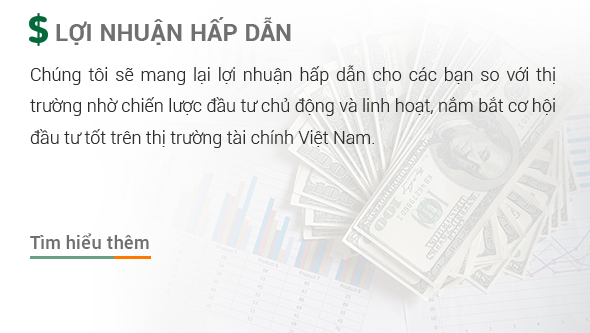
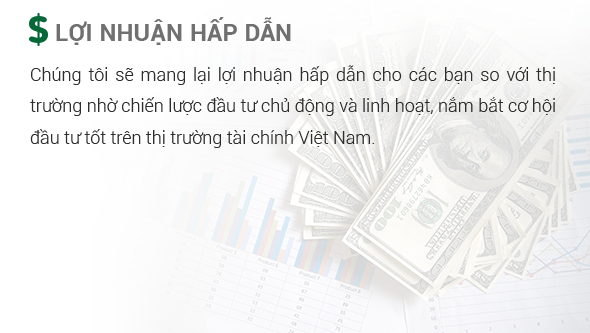
27042017 trumoftrums

Changed region(s): [[0.061, 0.6907, 0.2746, 0.7808]]

diff --git a/source/public/assets/frontend/css/style_hsg.css b/source/public/assets/frontend/css/style_hsg.css
@@ -271,7 +271,7 @@
 .content-right .second-bottom .item-thong-diep .right{
     float: left;
     width: 58%;
-    margin-left: 40%;
+    margin-left: 37%;
 }
 .content-right .second-bottom .item-thong-diep .right .cover-p-thong-diep{
     float: left;
@@ -305,7 +305,7 @@
     padding: 10px 10px 10px 23%;
     line-height: 22px;
     text-align: justify;
-    margin-left: -20%;
+    margin-left: -23%;
     font-size: 14px;
 }
 .content-right .title-header{

diff --git a/source/resources/views/user/partials/details.blade.php b/source/resources/views/user/partials/details.blade.php
@@ -1,33 +1,33 @@
 <div class="panel panel-default">
-    <div class="panel-heading">@lang('app.user_details')</div>
+    <div class="panel-heading">Thông tin chi tiết</div>
     <div class="panel-body">
         <div class="row">
             <div class="col-md-6">
                 <div class="form-group">
-                    <label for="first_name">@lang('app.role')</label>
+                    <label for="first_name">Vai trò</label>
                     {!! Form::select('role', $roles, $edit ? $user->roles->first()->id : '',
                         ['class' => 'form-control', 'id' => 'role', $profile ? 'disabled' : '']) !!}
                 </div>
                 <div class="form-group">
-                    <label for="status">@lang('app.status')</label>
+                    <label for="status">Trạng thái</label>
                     {!! Form::select('status', $statuses, $edit ? $user->status : '',
                         ['class' => 'form-control', 'id' => 'status', $profile ? 'disabled' : '']) !!}
                 </div>
                 <div class="form-group">
-                    <label for="first_name">@lang('app.first_name')</label>
+                    <label for="first_name">Tên</label>
                     <input type="text" class="form-control" id="first_name"
-                           name="first_name" placeholder="@lang('app.first_name')" value="{{ $edit ? $user->first_name : '' }}">
+                           name="first_name" placeholder="Tên" value="{{ $edit ? $user->first_name : '' }}">
                 </div>
                 <div class="form-group">
-                    <label for="last_name">@lang('app.last_name')</label>
+                    <label for="last_name">Họ</label>
                     <input type="text" class="form-control" id="last_name"
-                           name="last_name" placeholder="@lang('app.last_name')" value="{{ $edit ? $user->last_name : '' }}">
+                           name="last_name" placeholder="Họ" value="{{ $edit ? $user->last_name : '' }}">
                 </div>
             </div>
 
             <div class="col-md-6">
                 <div class="form-group">
-                    <label for="birthday">@lang('app.date_of_birth')</label>
+                    <label for="birthday">Ngày sinh</label>
                     <div class="form-group">
                         <div class='input-group date'>
                             <input type='text' name="birthday" id='birthday' value="{{ $edit ? $user->birthday : '' }}" class="form-control" />
@@ -38,17 +38,17 @@
                     </div>
                 </div>
                 <div class="form-group">
-                    <label for="phone">@lang('app.phone')</label>
+                    <label for="phone">Số ĐT</label>
                     <input type="text" class="form-control" id="phone"
-                           name="phone" placeholder="@lang('app.phone')" value="{{ $edit ? $user->phone : '' }}">
+                           name="phone" placeholder="Số ĐT" value="{{ $edit ? $user->phone : '' }}">
                 </div>
                 <div class="form-group">
-                    <label for="address">@lang('app.address')</label>
+                    <label for="address">Địa chỉ</label>
                     <input type="text" class="form-control" id="address"
-                           name="address" placeholder="@lang('app.address')" value="{{ $edit ? $user->address : '' }}">
+                           name="address" placeholder="Địa chỉ" value="{{ $edit ? $user->address : '' }}">
                 </div>
                 <div class="form-group">
-                    <label for="address">@lang('app.country')</label>
+                    <label for="address">Quốc gia</label>
                     {!! Form::select('country_id', $countries, $edit ? $user->country_id : '', ['class' => 'form-control']) !!}
                 </div>
             </div>
@@ -57,7 +57,7 @@
                 <div class="col-md-12">
                     <button type="submit" class="btn btn-primary" id="update-details-btn">
                         <i class="fa fa-refresh"></i>
-                        @lang('app.update_details')
+                        Cập nhật
                     </button>
                 </div>
             @endif

diff --git a/source/resources/views/partials/sidebar.blade.php b/source/resources/views/partials/sidebar.blade.php
@@ -49,7 +49,7 @@
             @permission('users.activity')
                 <li class="{{ Request::is('activity*') ? 'active open' : ''  }}">
                     <a href="{{ route('activity.index') }}" class="{{ Request::is('activity*') ? 'active' : ''  }}">
-                        <i class="fa fa-list-alt fa-fw"></i> @lang('app.activity_log')
+                        <i class="fa fa-list-alt fa-fw"></i> Lịch sử
                     </a>
                 </li>
             @endpermission
@@ -58,21 +58,21 @@
                 <li class="{{ Request::is('role*') || Request::is('permission*') ? 'active open' : ''  }}">
                     <a href="#">
                         <i class="fa fa-user fa-fw"></i>
-                        @lang('app.roles_and_permissions')
+                        Vai trò và Quyền
                         <span class="fa arrow"></span>
                     </a>
                     <ul class="nav nav-second-level collapse">
                         @permission('roles.manage')
                             <li>
                                 <a href="{{ route('role.index') }}" class="{{ Request::is('role*') ? 'active' : ''  }}">
-                                    @lang('app.roles')
+                                    Vai trò
                                 </a>
                             </li>
                         @endpermission
                         @permission('permissions.manage')
                             <li>
                                 <a href="{{ route('permission.index') }}"
-                                   class="{{ Request::is('permission*') ? 'active' : ''  }}">@lang('app.permissions')</a>
+                                   class="{{ Request::is('permission*') ? 'active' : ''  }}">Quyền</a>
                             </li>
                         @endpermission
                     </ul>
@@ -82,7 +82,7 @@
             @permission(['settings.general', 'settings.auth', 'settings.notifications'])
             <li class="{{ Request::is('settings*') ? 'active open' : ''  }}">
                 <a href="#">
-                    <i class="fa fa-gear fa-fw"></i> @lang('app.settings')
+                    <i class="fa fa-gear fa-fw"></i> Cài đặt
                     <span class="fa arrow"></span>
                 </a>
                 <ul class="nav nav-second-level collapse">
@@ -90,7 +90,7 @@
                         <li>
                             <a href="{{ route('settings.general') }}"
                                class="{{ Request::is('settings') ? 'active' : ''  }}">
-                                @lang('app.general')
+                                Tổng quát
                             </a>
                         </li>
                     @endpermission
@@ -98,7 +98,7 @@
                         <li>
                             <a href="{{ route('settings.auth') }}"
                                class="{{ Request::is('settings/auth*') ? 'active' : ''  }}">
-                                @lang('app.auth_and_registration')
+                                Xác thực & Đăng ký
                             </a>
                         </li>
                     @endpermission
@@ -106,7 +106,7 @@
                         <li>
                             <a href="{{ route('settings.notifications') }}"
                                class="{{ Request::is('settings/notifications*') ? 'active' : ''  }}">
-                                @lang('app.notifications')
+                                Thông báo
                             </a>
                         </li>
                     @endpermission

diff --git a/source/resources/views/user/partials/auth.blade.php b/source/resources/views/user/partials/auth.blade.php
@@ -1,5 +1,5 @@
 <div class="panel panel-default">
-    <div class="panel-heading">@lang('app.login_details')</div>
+    <div class="panel-heading">Thông tin đăng nhập</div>
     <div class="panel-body">
         <div class="form-group">
             <label for="email">@lang('app.email')</label>
@@ -7,24 +7,24 @@
                    name="email" placeholder="@lang('app.email')" value="{{ $edit ? $user->email : '' }}">
         </div>
         <div class="form-group">
-            <label for="username">@lang('app.username')</label>
-            <input type="text" class="form-control" id="username" placeholder="(@lang('app.optional'))"
+            <label for="username">Tên đăng nhập</label>
+            <input type="text" class="form-control" id="username" placeholder="Tên đăng nhập"
                    name="username" value="{{ $edit ? $user->username : '' }}">
         </div>
         <div class="form-group">
             <label for="password">{{ $edit ? trans("app.new_password") : trans('app.password') }}</label>
             <input type="password" class="form-control" id="password"
-                   name="password" @if ($edit) placeholder="@lang('app.leave_blank_if_you_dont_want_to_change')" @endif>
+                   name="password" @if ($edit) placeholder="Để trống nếu bạn không muốn thay đổi mật khẩu" @endif>
         </div>
         <div class="form-group">
             <label for="password_confirmation">{{ $edit ? trans("app.confirm_new_password") : trans('app.confirm_password') }}</label>
             <input type="password" class="form-control" id="password_confirmation"
-                   name="password_confirmation" @if ($edit) placeholder="@lang('app.leave_blank_if_you_dont_want_to_change')" @endif>
+                   name="password_confirmation" @if ($edit) placeholder="Để trống nếu bạn không muốn thay đổi mật khẩu" @endif>
         </div>
         @if ($edit)
             <button type="submit" class="btn btn-primary" id="update-login-details-btn">
                 <i class="fa fa-refresh"></i>
-                @lang('app.update_details')
+                Cập nhật
             </button>
         @endif
     </div>

diff --git a/source/resources/views/user/profile.blade.php b/source/resources/views/user/profile.blade.php
@@ -8,13 +8,6 @@
     <div class="col-lg-12">
         <h1 class="page-header">
             {{ $user->present()->nameOrEmail }}
-            <small>@lang('app.edit_profile_details')</small>
-            <div class="pull-right">
-                <ol class="breadcrumb">
-                    <li><a href="javascript:;">@lang('app.home')</a></li>
-                    <li class="active">@lang('app.my_profile')</li>
-                </ol>
-            </div>
         </h1>
     </div>
 </div>
@@ -26,19 +19,19 @@
     <li role="presentation" class="active">
         <a href="#details" aria-controls="details" role="tab" data-toggle="tab">
             <i class="glyphicon glyphicon-th"></i>
-            @lang('app.details')
+            Chi tiết
         </a>
     </li>
     <li role="presentation">
         <a href="#social-networks" aria-controls="social-networks" role="tab" data-toggle="tab">
             <i class="fa fa-youtube"></i>
-            @lang('app.social_networks')
+            Mạng xã hội
         </a>
     </li>
     <li role="presentation">
         <a href="#auth" aria-controls="auth" role="tab" data-toggle="tab">
             <i class="fa fa-lock"></i>
-            @lang('app.authentication')
+            Xác thực
         </a>
     </li>
 </ul>

diff --git a/source/resources/views/layouts/app.blade.php b/source/resources/views/layouts/app.blade.php
@@ -59,21 +59,21 @@
                             <li>
                                 <a href="{{ route('profile') }}">
                                     <i class="fa fa-user"></i>
-                                    @lang('app.my_profile')
+                                    Trang cá nhân
                                 </a>
                             </li>
                             @if (config('session.driver') == 'database')
                                 <li>
                                     <a href="{{ route('profile.sessions') }}">
                                         <i class="fa fa-list"></i>
-                                        @lang('app.active_sessions')
+                                        Phiên làm việc
                                     </a>
                                 </li>
                             @endif
                             <li>
                                 <a href="{{ route('auth.logout') }}">
                                     <i class="fa fa-sign-out"></i>
-                                    @lang('app.logout')
+                                    Đăng xuất
                                 </a>
                             </li>
                         </ul>

diff --git a/source/resources/views/user/partials/avatar.blade.php b/source/resources/views/user/partials/avatar.blade.php
@@ -1,5 +1,5 @@
 <div class="panel panel-default">
-    <div class="panel-heading">@lang('app.avatar')</div>
+    <div class="panel-heading">Hình đại diện</div>
     <div class="panel-body avatar-wrapper">
         <div class="spinner">
             <div class="spinner-dot"></div>
@@ -11,7 +11,7 @@
             <img class="avatar avatar-preview img-circle" src="{{ $edit ? $user->present()->avatar : url('assets/img/profile.png') }}">
             <div id="change-picture" class="btn btn-default btn-block" data-toggle="modal" data-target="#choose-modal">
                 <i class="fa fa-camera"></i>
-                @lang('app.change_photo')
+                Thay đổi
             </div>
             <div class="row avatar-controls">
                 <div class="col-md-6">

diff --git a/source/resources/views/frontend/home.blade.php b/source/resources/views/frontend/home.blade.php
@@ -166,7 +166,7 @@
                 “Sáng tạo và Đổi mới”<br>
                 “Lợi nhuận và hiệu quả”<br>
                 “Chuyên nghiệp và tiêu chuẩn hoá”<br>
-                Là những giá trị cốt lỗi làm nền tảng góp phần đưa HSG trở thành một tập đoàn kinh tế mạnh đa quốc gia.
+                Là những giá trị cốt lỗi làm nền tảng góp phần đưa HSG trở thành một tập đoàn đa quốc gia.
 
             </p>
         </div>

diff --git a/source/resources/views/user/partials/social-networks.blade.php b/source/resources/views/user/partials/social-networks.blade.php
@@ -1,5 +1,5 @@
 <div class="panel panel-default">
-    <div class="panel-heading">@lang('app.social_networks')</div>
+    <div class="panel-heading">Thông tin mạng xã hội</div>
     <div class="panel-body">
         <div class="row">
             <div class="col-md-6">
@@ -63,7 +63,7 @@
         </div>
         <button type="submit" class="btn btn-primary">
             <i class="fa fa-refresh"></i>
-            @lang('app.update_social_networks')
+            Cập nhật
         </button>
     </div>
 </div>

diff --git a/source/resources/views/dashboard/default.blade.php b/source/resources/views/dashboard/default.blade.php
@@ -109,7 +109,7 @@
                     <div class="icon">
                         <i class="fa fa-sign-out"></i>
                     </div>
-                    <p class="lead">Thoát</p>
+                    <p class="lead">Đăng xuất</p>
                 </div>
             </div>
         </a>
